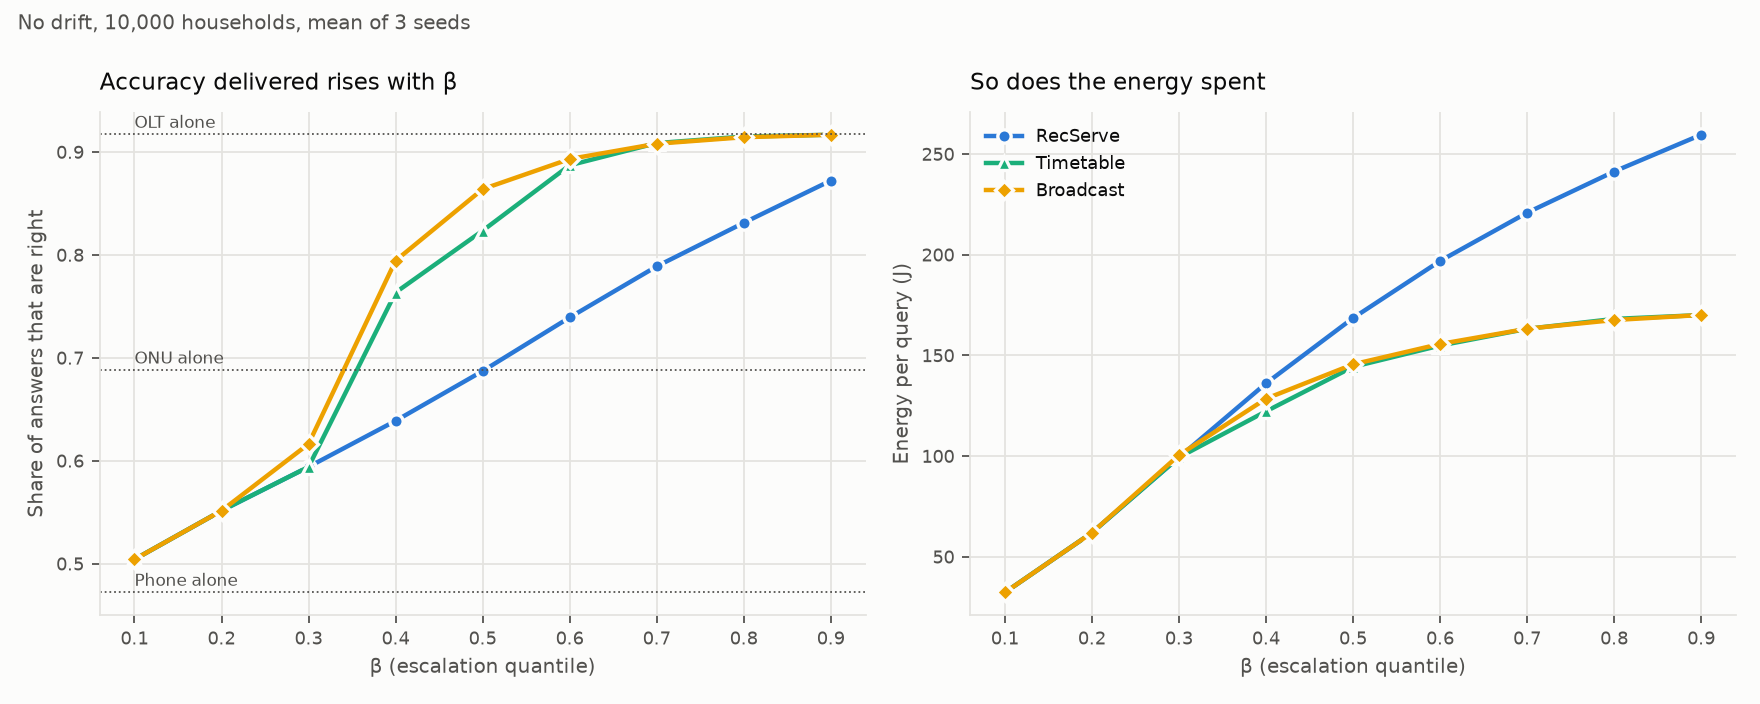
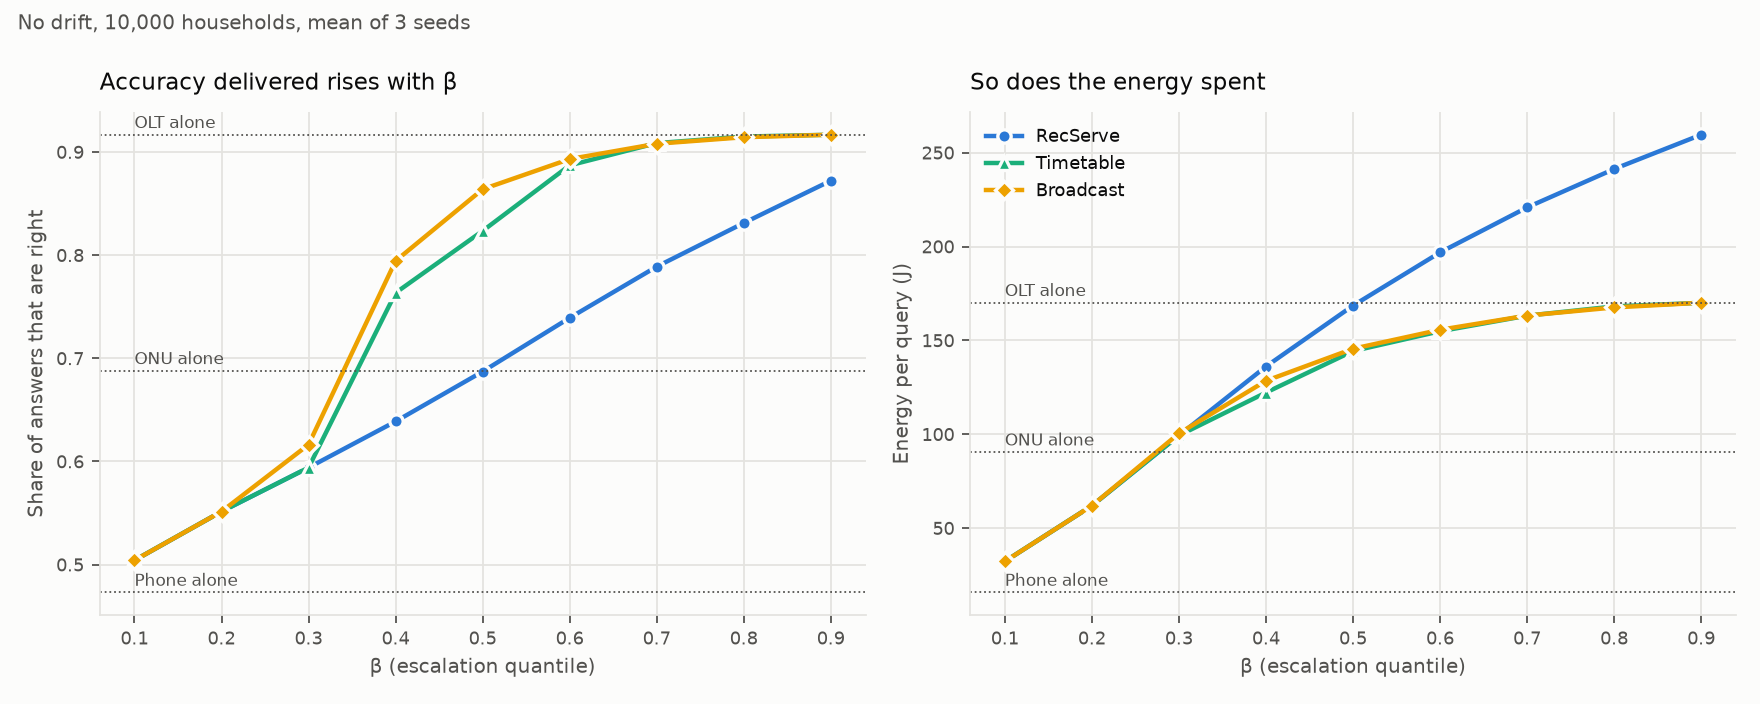
docs(study): each tier alone on the β knob's energy panel too
The accuracy panel's reference lines now come from the single-tier runs, and the
energy panel gets the same three lines: phone 16 J, ONU 90 J, OLT 170 J.

diff --git a/implementation/src/analyze/plot_study.py b/implementation/src/analyze/plot_study.py
@@ -230,11 +230,18 @@ def plot_beta_knob() -> Path:
         _, joules = per_beta(runs, policy, SIZE, "J_per_query")
         line(panels[0], betas, accuracy, name, color, marker)
         line(panels[1], betas, joules, name, color, marker)
-    for tier, value in (("Phone alone", 0.472), ("ONU alone", 0.688), ("OLT alone", 0.917)):
-        panels[0].axhline(value, color=MUTED, linewidth=0.8, linestyle=":")
-        panels[0].annotate(
-            tier, (0.1, value), xytext=(0, 3), textcoords="offset points", fontsize=7.5, color=MUTED
-        )
+    for policy, name in ALONE.items():
+        accuracy, joules = tier_alone(policy)
+        for axes, value, text in ((panels[0], accuracy, name), (panels[1], joules, name)):
+            axes.axhline(value, color=MUTED, linewidth=0.8, linestyle=":")
+            axes.annotate(
+                text,
+                (0.1, value),
+                xytext=(0, 3),
+                textcoords="offset points",
+                fontsize=7.5,
+                color=MUTED,
+            )
     legend(panels[1])
     figure.suptitle(
         f"No drift, {SIZE:,} households, mean of 3 seeds",
